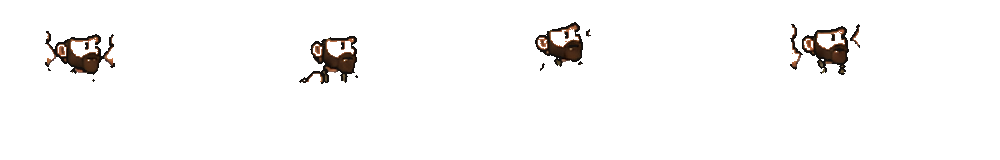
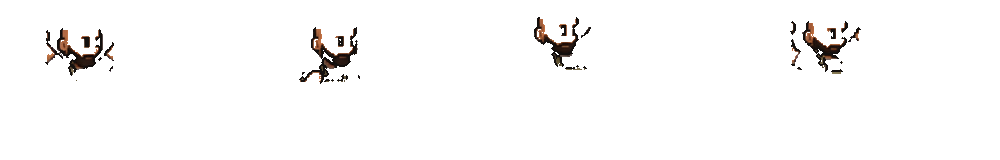
Take the full beard off a bare-headed sheet, and give the cap run its anchors
The beard has always come off the dressed sheet, where the artist drew him
in a cap as well. Hue could separate most of that cap from his whiskers but
never its underside, which is the same brown and sits right among them, so
the overlay carried a dark bar across the brow in all twenty-two frames. It
was there the whole time and easy to miss under a hat.

The new sheet puts him bare-headed, and it lands at 98% overlap with the
bald strips, the closest any sheet has come, because nothing is added above
the head. The bar is gone and the beard is the artist's, unmixed.

That orphaned the hat anchors, which the beard run measured on its way past
the cap. They belong to the run that lifts the cap, so that is where they
are measured now — and since a run's own hits are all that is left when the
cap *is* the target, the brim is measured from those, minus their line
work, which the beard run used to skim off into another branch first. The
seats reproduce to the pixel bar one row on one frame of the reel strip.

Stubble is lighter against the new drawing, which is thinner than the old
one was with a cap's shadow folded into it.

Claude-Session: https://claude.ai/code/session_01VwWoFnHtqAUdLvqdLNocKa

diff --git a/src/utils/anglerLook.js b/src/utils/anglerLook.js
@@ -82,7 +82,7 @@ export const HAIR_STYLES = {
 // shape of its own, so that one may well stay a window for good.
 export const BEARD_STYLES = {
   none: { label: 'Clean shaven', keep: 'none' },
-  stubble: { label: 'Stubble', overlay: 'full', keep: 'all', shade: 0.42 },
+  stubble: { label: 'Stubble', overlay: 'full', keep: 'all', shade: 0.24 },
   mustache: { label: 'Moustache', overlay: 'full', keep: 'lip' },
   goatee: { label: 'Goatee', overlay: 'full', keep: 'chin' },
   full: { label: 'Full beard', overlay: 'full', keep: 'all' },

diff --git a/CLAUDE.md b/CLAUDE.md
@@ -100,7 +100,7 @@ Mobile gets fixed bottom nav with safe-area padding, single-column layouts, and 
 - **Art pipeline:** `scripts/generateImage.mjs` (OpenAI Images, key from `OPENAI_API_KEY`, `--transparent` for sprites) produces raw renders; sprites get their alpha haze thresholded and sheets sliced in a Chromium canvas before landing in `src/assets/{props,ambient,scenes,fish}`. Match existing pieces: pixel-art backdrops/props, and the neon-outlined sticker style for anything in `assets/fish`. Plank and rope frames are `border-image` PNGs in `assets/props`.
 - **Derby prize:** `claimDerbyWin` (AuthContext) checks last week's final board when the game opens and appends the ISO week key to `game_profiles.derby_wins` (migration `0020`) for the winner; `gameDerby.isChampion` decides who flies the Golden Pennant this week, and presence carries `champion` so the crew see it.
 - **The fly rod** (`FLY_ROD` in `gameLures`, `fly_rod` on `game_profiles` — migration `0021`) opens the fly box on `flyWater` grounds (river, mountain lake). Flies are ordinary `owned_lures` with `rod: 'fly'`, an `interaction: 'drift'`, a `hatch` (the periods they match) and, for the streamer, `favors` (species that roll heavier via `rollSpecies`'s `favor` option). The cast becomes an accuracy cast — `rise` moves the meter band and draws the ring on the stage, `castAccuracy` seeds the drift — and the wait is the drift in `lurePhysics` (`stepDrift`/`mendLine`: mend in the band, drag at 100 spooks, the run ends at 100). Off trout water the chips disappear and live bait goes back on.
-- **Looks and Marina's Outfitters** (`utils/anglerLook.js`, `look`/`wardrobe` on `game_profiles` — migration `0022`): seven ChatGPT sheets in `art/` feed this, and the rule is that **every cosmetic is a drawing, stamped or dyed — none is invented**. A shape the painter guessed at is what looked sloppy, so nothing is guessed now: the painter only dyes and places. `art/angler-sheet.png` is the character bald, clean-shaven, pale shirt, olive waders; `scripts/anglerSlice.mjs` reproduces the strips in `assets/angler` from it, thresholding the alpha haze, dropping the navy label chips, stripping the drawn fishing line and its lure (the game draws its own from the rod tip) and taking each pose as the one component joined to its caster's hands. Rows are `idle` 5, `walk` 5 (sliced, not kept), `cast` 5, `reel` 6, `celebrate` 4, `hurt` 3; cast's rodless fourth frame is dropped by `KEEP`, which also puts the rest in the order a cast goes, since the game holds the last one while the line is out. There is no `fishon` row: the hookset is the reel strip's first beats and a lost fish gets the sheet's own slump. Frames land in the box the stage has always used — 250×160, feet at (80, 154) — leaving ten rows of headroom above the crown; `strips.json` records it. `art/angler-dressed-sheet.png`, `art/angler-haired-sheet.png`, `art/angler-outfit-sheet.png` and `art/angler-boots-sheet.png` are the *same character in the same poses*, wearing a cap and a full beard, a head of hair, a vest over jeans, and brown leather boots, and they are the most useful sheets here. Fed through the same feet anchor by `scripts/anglerDressed.mjs` they line up with the bald strips to within a pixel, so what each adds is the artist's own, pose by pose, at that angle, with its own shading and line work. Both are the brown around the head, which hue finds — brown runs red ahead of green where the cap's olive has the two level, and darkness separates it from skin, the lightest thing on a head. Line work goes with whatever it lies against, and the search is held to the head box because the rod is brown too and crosses right past it. The outfit is found a different way: clothes are the only thing that changed below the chin, so it is simply every body pixel that differs from the bald one, with runs under eighty pixels dropped because a redraw never lands on exactly the same pixels and leaves a rim of flecks. A run picks two things independently. `box` is where to look: the head box (`head`, opened by `pad`/`rise`/`below`), everything under the chin (`body`), or the rows the bald frame's own mask wears a part on (`band`). `test` is what counts as the garment there: `diff`, whatever is not what the bald sheet has, which needs no colour at all and is right whenever a sheet changed one thing; or hue, for a sheet that changed two at once. Out past the bald figure a diff only counts a pixel two inside the new silhouette, because a cut-out fades to its background over the last pixel or two and a redraw never lands on the same edge, so that fringe is otherwise all a diff can see there. The boots go back to hue, in a box of their own: two dark boots differ from two dark ones by too little for a diff to see, but brown leather against the olive hem right above it is the same question as brown hair against an olive cap. That box is the rows the bald frame's own mask wears boots on, opened upwards for a taller shaft and never further from the ground than a boot is tall — in the kneeling pose the mask calls his shoulder leather and his bowed head is right beside it — and nothing goes on over skin, because his bare forearms there are as brown and as dark as the leather. Each lands in `assets/angler/{beard,hair,outfit,boots}/*.png`, one overlay per strip, pixel-for-pixel, so the painter has nothing to place — and an overlay drawn for a head thrown back mid-cast beats any front-on piece pasted onto one, in all twenty-two frames. The same script measures the *cap* before throwing it away and writes `utils/hatAnchors.json`: the centre and the row the artist's own brim sat on, per frame. Every hat hangs off that. Seating hats on a fraction of the head box instead was the thing that made them sit wrong — a fraction cannot know the head is tipped forward in one pose and thrown back in another, and the artist did know, in all twenty-two. `art/hats-sheet.png` (twenty hats) and `art/hair-sheet.png` (eight hairstyles, made with `scripts/generateImage.mjs`) both go through `scripts/anglerWearables.mjs`, which shrinks each piece by *averaging* to the width it is worn at — at that reduction a sheet's blocks land at about the character's own size, which is why a drawn hat sits on him as if painted there — and records one anchor row per piece. A hat anchors on its `brim`: the lowest row still most of its full width, the underside of a peak or a bucket's brim. A hairpiece anchors on its `top`, because it is not worn on the head, it *is* the top of the head; hanging hair off a brim row buries the eyes. These are the variety — the stock `short` style is the overlay above, which is better and of which there is only one. Rows are split at the widest gaps between pieces and merged down to the sheet's own grid, since no single grow radius keeps a top knot's bun attached without also welding two hairstyles together. The hair sheet needs one more step: asked for hairpieces the model draws whole heads, so the face is cut by its colour and only line work lying *against* hair is kept — following the keyline instead walks down the jaw and stamps a black chin strap across the angler's mouth. **Hats are going the same way, and this is the rule they proved.** A hat drawn front-on as a standalone object cannot sit on a head in a three-quarter turn: that is a viewing angle, not a placement, and no anchor row fixes it — which is why a boonie's chin strap, drawn across the front of the object, lands across his face. So a hat becomes a drawing of *him wearing it*, lifted off a sheet of the same poses (`node scripts/anglerDressed.mjs hat <sheet.png> <name>` → `assets/angler/hats/<name>/*.png`), which needs no scale and no anchor row and turns with the head because the artist turned it. `cap_olive` came off the dressed sheet by the `cap` run — hue, because that sheet wears a beard too — and every other hat sheet goes in `art/hats/<name>.png` and uses the plain `hat` run, which finds any colour. Six drawings now carry fifteen of the rack's twenty-three hats: `cap_olive`, `cap_red`, `beanie_black`, `bucket_tan`, `straw_blue` and `souwester`, each with its dyes. Whether a hat can carry dyes is a fact about the drawing, not a preference: a solid knit hat or a solid oilskin takes one, and `cap_red`'s white front panel, `bucket_camo`'s pattern and `straw_red`'s contrasting band cannot, so those keep their own drawing or stay stamped. The seven left on `hats-sheet.png` are the ones with no sheet of their own yet. Two rules make that run honest. A garment is not one pixel wide, so the hits are *opened* — worn away by a pixel and grown back — which deletes the thread the diff finds where the two sheets' silhouettes differ by a pixel and leaves everything else the size it was; inside the bald figure the fringe rule cannot catch that thread, and `cap_red` is white exactly where it runs. And a hat is one thing, so only the biggest connected piece is kept: the rod and the drawn line cross the head box and the artist put them a pixel off, and no size threshold says that, a rod's run being long. A third rule earns its keep the moment a hat is dyed: the diff finds the brow, the ear and the eye too, because the artist redrew those a pixel over, and an eye that comes along with a hat is dyed with it. What tells them apart is that a feature moved is still there to be found right beside itself, so a pixel matching what the bald frame has within two pixels of it is that same thing shifted, where a hat is a colour the head never had there. Only light pixels are tested: a hat's own keyline is as black as the head's and would always look shifted, and a dark stray never shows anyway because a dye leaves line work alone. The search is one pixel and the match is tight, because it is looking for the *same* colour moved over: `bucket_tan` lands near skin without being it, and a looser match punched the skin through the crown of it in speckles. Out in the air beside him a pale *grey* stroke is the sheet's own drawn line or the whip marks round it, and the bald strips carry neither — the slicer takes them out, the game drawing its own line from the rod tip — so there is nothing there to diff against and every one of them reads as new; a hat out there is a colour, which is what tells `straw_blue`'s brim from the line crossing it. Then, last, a garment is solid, so any hole the tests punched clean through one is filled back from the sheet itself — from the figure only, since a wide brim and the rod can close a pocket of plain background between them — and holes only, since anything open to the outside of the frame is the shape of the hat, not a hole in it. How dark a pixel can be and still take a dye is the drawing's own `floor`, not a constant — `beanie_black` is knitted black, and the usual guard would call most of the wool line work and leave a dyed one black. A drawn hat is named by `overlay` on its rack item and listed in `HAT_ART` in `anglerPaint.js`, where the bundler needs every asset named; a hat still on `hats-sheet.png` keeps its `sprite` and its `hatAnchors.json` seat until its sheet lands, and the brim measurement keeps its own box so those seats do not move meanwhile. A dyed cap is the same drawing against `CAP_DRAWN`, the olive the artist painted it in — which is not the olive of the stamped sprite, they being two drawings of the same cap. That is also the answer for clothing that deforms with the pose: a *stamped* drawing cannot follow a leg mid-stride, but an overlay drawn for that leg can, which is why `waders_jeans` and `boots_brown` are `overlay` items in the rack rather than dyes and why their sheets were worth making. An overlay nulls its slot's dye, and the outfit goes on before the boots, the order they are worn in. `art/boots-sheet.png` and `art/outfits-sheet.png` remain reference for the dye palettes only. Each strip also has a part mask in `assets/angler/masks` (red channel: skin, shirt, waders, boots, rod, line work) and `utils/anglerAnchors.json` holds each frame's head box, face box and facing — from `scripts/anglerMasks.mjs`, previews beside the masks. That script leans on shape where colour cannot decide: the rod is what vanishes under an erosion, the keyline is the outermost pixel of the body, the waders' near-black folds are told from line work by their olive cast, and the head box is cut at the chin where the widest row of the skin patch has lost most of its width to the neck. The sheet only ever draws the angler in a three-quarter turn to his right, so `FACING` is one stated fact about the art. **A skin tone is not a dye.** A dye keeps only a pixel's brightness and rebuilds it on a target colour, which works on gear that keeps its shape under a colour and flattens a face: the shading went and the deepest tone came out grey. The sheet says as much itself — its SKIN TONES row is five separate *heads*, one per tone, because the artist did not tint one either. So `scripts/anglerSkin.mjs` reads six ramps into `utils/skinRamps.json`: the body's own, off the strips where their masks say skin, and the five the sheet draws, each the population sorted by brightness and cut into four bands at its own quartiles so a band is the mean of the tones actually used there. The body lands within nine of the sheet's middle head, which is the check that these are the same character. `shiftPixel` then moves a pixel by the step between its band in one ramp and the same band in the other, so the pixel is *moved* rather than rebuilt and the modelling arrives intact. Each rack tone names a ramp by index; `olive` is the one the sheet has no head for and is mixed from the two either side at the ratio that lands it on its own swatch. Hair and beards keep a dye, with two corrections a drawing needs and gear does not: a highlight lightens *toward white* rather than multiplying past it (multiplying clipped two channels of a blond beard and left the third, which is a colour nobody chose), and `dyeDrawn` pulls the drawing's contrast in toward its middle first, because hair is drawn dark and carrying all of that darkness onto a pale target is what made blond read as olive. `utils/anglerPaint.js` then does three things per strip: dyes the parts that keep their shape (`tintPixel`, luminance-preserving — shirt, waders, boots, rod) and moves skin between ramps; stamps the beard overlay, dyed to the hair colour against `DRAWN_BASE`, with a style as a window on it (`all`, the `chin` as a patch round the chin, the `lip` above the mouth, or `shade`, let almost all the way down into the skin for stubble — it used to be thinned to every other pixel too, and at this size a checkerboard is what that looks like). **The `chin` and `lip` windows are the last invented shapes left on this character**: a goatee the artist draws is not the corner of a full beard, so both want a pose sheet of their own, the way the hats did. Facial hair is set up for that already — `beard <sheet> <name>` lifts into `assets/angler/beards/<style>/` and a style names its drawing with `overlay`, `full` being the dressed sheet's own. The hue test grew one clause for it: a *yellow* hat runs red ahead of green like any brown and its shaded folds are dark enough to pass, but no brown has its green so far ahead of its blue. That clause is not enough on its own, and the reason is worth keeping: **a beard sheet must put him in no hat at all**. A sou'wester's brim line and a goatee came out the same brown, `57,37,22` against `67,43,28`, at the same height on the head, so neither colour nor position could split them, and masking with the hat's own drawing took a third of the goatee with it. One change per sheet is what makes any of this work. Beards also do *not* take the hat run's rules: a hat is one solid thing, where a beard is a moustache and a chin and a pair of sideburns, and keeping only the biggest piece of that throws away three of the four. The box does start below the brow (`from`), since that is where facial hair starts. And only the dressed sheet may write `hatAnchors.json` — a beard sheet in another hat would clobber the seats, so the run leaves the file alone unless it seated all twenty-two; and puts hair on and then the hat over it — the stock style as an overlay like the beard, every other style stamped, scaled by the frame's own head and hung on its anchor, all dyed to the hair colour (against `DRAWN_BASE` for anything lifted off a pose sheet, `HAIR_SPRITE_BASE` for the generated pieces, which came out lighter), a hat only where a wardrobe item is the same drawing in another colour. Hair goes on whether or not a hat does, because a cap leaves plenty showing. `paletteFor(look)` is the pure look → dye targets + `head` plan the painter and its tests share; `DEFAULT_LOOK` is the art exactly as drawn — bald, clean-shaven, bare-headed — so the stock strips show unpainted, and where there's no canvas (jsdom) they show anyway with previews carrying `data-painted="no"`. Skin tone, hair style/colour and facial hair are free; hats, shirts, rod colours, boots and waders are bought once (`purchaseApparel`) and worn via `saveLook`, which re-validates against what's owned — **every wardrobe key is stable across art swaps**, so a key whose drawing changed was repointed and relabelled rather than retired, and nobody's purchase is orphaned. `AnglerPreview` frames `STILL_WINDOW` on the strip or the painted still so both come out the same size. A new hat or hairstyle is a drawing in its sheet plus a key in `WARDROBE` or `HAIR_STYLES`, not code; a new base sheet means a run through the slicer, the mask tool and every dressed run, all of which need Playwright with Chromium. Those sheets come back both on white and already cut out, and `anglerDressed.mjs` decides which by how much of the canvas is transparent. Presence carries `look` so the crew wear theirs.
+- **Looks and Marina's Outfitters** (`utils/anglerLook.js`, `look`/`wardrobe` on `game_profiles` — migration `0022`): eight ChatGPT sheets in `art/` feed this, and the rule is that **every cosmetic is a drawing, stamped or dyed — none is invented**. A shape the painter guessed at is what looked sloppy, so nothing is guessed now: the painter only dyes and places. `art/angler-sheet.png` is the character bald, clean-shaven, pale shirt, olive waders; `scripts/anglerSlice.mjs` reproduces the strips in `assets/angler` from it, thresholding the alpha haze, dropping the navy label chips, stripping the drawn fishing line and its lure (the game draws its own from the rod tip) and taking each pose as the one component joined to its caster's hands. Rows are `idle` 5, `walk` 5 (sliced, not kept), `cast` 5, `reel` 6, `celebrate` 4, `hurt` 3; cast's rodless fourth frame is dropped by `KEEP`, which also puts the rest in the order a cast goes, since the game holds the last one while the line is out. There is no `fishon` row: the hookset is the reel strip's first beats and a lost fish gets the sheet's own slump. Frames land in the box the stage has always used — 250×160, feet at (80, 154) — leaving ten rows of headroom above the crown; `strips.json` records it. `art/angler-dressed-sheet.png`, `art/angler-haired-sheet.png`, `art/angler-outfit-sheet.png` and `art/angler-boots-sheet.png` are the *same character in the same poses*, wearing a cap and a full beard, a head of hair, a vest over jeans, and brown leather boots, and they are the most useful sheets here. Fed through the same feet anchor by `scripts/anglerDressed.mjs` they line up with the bald strips to within a pixel, so what each adds is the artist's own, pose by pose, at that angle, with its own shading and line work. Both are the brown around the head, which hue finds — brown runs red ahead of green where the cap's olive has the two level, and darkness separates it from skin, the lightest thing on a head. Line work goes with whatever it lies against, and the search is held to the head box because the rod is brown too and crosses right past it. The outfit is found a different way: clothes are the only thing that changed below the chin, so it is simply every body pixel that differs from the bald one, with runs under eighty pixels dropped because a redraw never lands on exactly the same pixels and leaves a rim of flecks. A run picks two things independently. `box` is where to look: the head box (`head`, opened by `pad`/`rise`/`below`), everything under the chin (`body`), or the rows the bald frame's own mask wears a part on (`band`). `test` is what counts as the garment there: `diff`, whatever is not what the bald sheet has, which needs no colour at all and is right whenever a sheet changed one thing; or hue, for a sheet that changed two at once. Out past the bald figure a diff only counts a pixel two inside the new silhouette, because a cut-out fades to its background over the last pixel or two and a redraw never lands on the same edge, so that fringe is otherwise all a diff can see there. The boots go back to hue, in a box of their own: two dark boots differ from two dark ones by too little for a diff to see, but brown leather against the olive hem right above it is the same question as brown hair against an olive cap. That box is the rows the bald frame's own mask wears boots on, opened upwards for a taller shaft and never further from the ground than a boot is tall — in the kneeling pose the mask calls his shoulder leather and his bowed head is right beside it — and nothing goes on over skin, because his bare forearms there are as brown and as dark as the leather. Each lands in `assets/angler/{beard,hair,outfit,boots}/*.png`, one overlay per strip, pixel-for-pixel, so the painter has nothing to place — and an overlay drawn for a head thrown back mid-cast beats any front-on piece pasted onto one, in all twenty-two frames. The same script measures the *cap* before throwing it away and writes `utils/hatAnchors.json`: the centre and the row the artist's own brim sat on, per frame. Every hat hangs off that. Seating hats on a fraction of the head box instead was the thing that made them sit wrong — a fraction cannot know the head is tipped forward in one pose and thrown back in another, and the artist did know, in all twenty-two. `art/hats-sheet.png` (twenty hats) and `art/hair-sheet.png` (eight hairstyles, made with `scripts/generateImage.mjs`) both go through `scripts/anglerWearables.mjs`, which shrinks each piece by *averaging* to the width it is worn at — at that reduction a sheet's blocks land at about the character's own size, which is why a drawn hat sits on him as if painted there — and records one anchor row per piece. A hat anchors on its `brim`: the lowest row still most of its full width, the underside of a peak or a bucket's brim. A hairpiece anchors on its `top`, because it is not worn on the head, it *is* the top of the head; hanging hair off a brim row buries the eyes. These are the variety — the stock `short` style is the overlay above, which is better and of which there is only one. Rows are split at the widest gaps between pieces and merged down to the sheet's own grid, since no single grow radius keeps a top knot's bun attached without also welding two hairstyles together. The hair sheet needs one more step: asked for hairpieces the model draws whole heads, so the face is cut by its colour and only line work lying *against* hair is kept — following the keyline instead walks down the jaw and stamps a black chin strap across the angler's mouth. **Hats are going the same way, and this is the rule they proved.** A hat drawn front-on as a standalone object cannot sit on a head in a three-quarter turn: that is a viewing angle, not a placement, and no anchor row fixes it — which is why a boonie's chin strap, drawn across the front of the object, lands across his face. So a hat becomes a drawing of *him wearing it*, lifted off a sheet of the same poses (`node scripts/anglerDressed.mjs hat <sheet.png> <name>` → `assets/angler/hats/<name>/*.png`), which needs no scale and no anchor row and turns with the head because the artist turned it. `cap_olive` came off the dressed sheet by the `cap` run — hue, because that sheet wears a beard too — and every other hat sheet goes in `art/hats/<name>.png` and uses the plain `hat` run, which finds any colour. Six drawings now carry fifteen of the rack's twenty-three hats: `cap_olive`, `cap_red`, `beanie_black`, `bucket_tan`, `straw_blue` and `souwester`, each with its dyes. Whether a hat can carry dyes is a fact about the drawing, not a preference: a solid knit hat or a solid oilskin takes one, and `cap_red`'s white front panel, `bucket_camo`'s pattern and `straw_red`'s contrasting band cannot, so those keep their own drawing or stay stamped. The seven left on `hats-sheet.png` are the ones with no sheet of their own yet. Two rules make that run honest. A garment is not one pixel wide, so the hits are *opened* — worn away by a pixel and grown back — which deletes the thread the diff finds where the two sheets' silhouettes differ by a pixel and leaves everything else the size it was; inside the bald figure the fringe rule cannot catch that thread, and `cap_red` is white exactly where it runs. And a hat is one thing, so only the biggest connected piece is kept: the rod and the drawn line cross the head box and the artist put them a pixel off, and no size threshold says that, a rod's run being long. A third rule earns its keep the moment a hat is dyed: the diff finds the brow, the ear and the eye too, because the artist redrew those a pixel over, and an eye that comes along with a hat is dyed with it. What tells them apart is that a feature moved is still there to be found right beside itself, so a pixel matching what the bald frame has within two pixels of it is that same thing shifted, where a hat is a colour the head never had there. Only light pixels are tested: a hat's own keyline is as black as the head's and would always look shifted, and a dark stray never shows anyway because a dye leaves line work alone. The search is one pixel and the match is tight, because it is looking for the *same* colour moved over: `bucket_tan` lands near skin without being it, and a looser match punched the skin through the crown of it in speckles. Out in the air beside him a pale *grey* stroke is the sheet's own drawn line or the whip marks round it, and the bald strips carry neither — the slicer takes them out, the game drawing its own line from the rod tip — so there is nothing there to diff against and every one of them reads as new; a hat out there is a colour, which is what tells `straw_blue`'s brim from the line crossing it. Then, last, a garment is solid, so any hole the tests punched clean through one is filled back from the sheet itself — from the figure only, since a wide brim and the rod can close a pocket of plain background between them — and holes only, since anything open to the outside of the frame is the shape of the hat, not a hole in it. How dark a pixel can be and still take a dye is the drawing's own `floor`, not a constant — `beanie_black` is knitted black, and the usual guard would call most of the wool line work and leave a dyed one black. A drawn hat is named by `overlay` on its rack item and listed in `HAT_ART` in `anglerPaint.js`, where the bundler needs every asset named; a hat still on `hats-sheet.png` keeps its `sprite` and its `hatAnchors.json` seat until its sheet lands, and the brim measurement keeps its own box so those seats do not move meanwhile. A dyed cap is the same drawing against `CAP_DRAWN`, the olive the artist painted it in — which is not the olive of the stamped sprite, they being two drawings of the same cap. That is also the answer for clothing that deforms with the pose: a *stamped* drawing cannot follow a leg mid-stride, but an overlay drawn for that leg can, which is why `waders_jeans` and `boots_brown` are `overlay` items in the rack rather than dyes and why their sheets were worth making. An overlay nulls its slot's dye, and the outfit goes on before the boots, the order they are worn in. `art/boots-sheet.png` and `art/outfits-sheet.png` remain reference for the dye palettes only. Each strip also has a part mask in `assets/angler/masks` (red channel: skin, shirt, waders, boots, rod, line work) and `utils/anglerAnchors.json` holds each frame's head box, face box and facing — from `scripts/anglerMasks.mjs`, previews beside the masks. That script leans on shape where colour cannot decide: the rod is what vanishes under an erosion, the keyline is the outermost pixel of the body, the waders' near-black folds are told from line work by their olive cast, and the head box is cut at the chin where the widest row of the skin patch has lost most of its width to the neck. The sheet only ever draws the angler in a three-quarter turn to his right, so `FACING` is one stated fact about the art. **A skin tone is not a dye.** A dye keeps only a pixel's brightness and rebuilds it on a target colour, which works on gear that keeps its shape under a colour and flattens a face: the shading went and the deepest tone came out grey. The sheet says as much itself — its SKIN TONES row is five separate *heads*, one per tone, because the artist did not tint one either. So `scripts/anglerSkin.mjs` reads six ramps into `utils/skinRamps.json`: the body's own, off the strips where their masks say skin, and the five the sheet draws, each the population sorted by brightness and cut into four bands at its own quartiles so a band is the mean of the tones actually used there. The body lands within nine of the sheet's middle head, which is the check that these are the same character. `shiftPixel` then moves a pixel by the step between its band in one ramp and the same band in the other, so the pixel is *moved* rather than rebuilt and the modelling arrives intact. Each rack tone names a ramp by index; `olive` is the one the sheet has no head for and is mixed from the two either side at the ratio that lands it on its own swatch. Hair and beards keep a dye, with two corrections a drawing needs and gear does not: a highlight lightens *toward white* rather than multiplying past it (multiplying clipped two channels of a blond beard and left the third, which is a colour nobody chose), and `dyeDrawn` pulls the drawing's contrast in toward its middle first, because hair is drawn dark and carrying all of that darkness onto a pale target is what made blond read as olive. `utils/anglerPaint.js` then does three things per strip: dyes the parts that keep their shape (`tintPixel`, luminance-preserving — shirt, waders, boots, rod) and moves skin between ramps; stamps the beard overlay, dyed to the hair colour against `DRAWN_BASE`, with a style as a window on it (`all`, the `chin` as a patch round the chin, the `lip` above the mouth, or `shade`, let almost all the way down into the skin for stubble — it used to be thinned to every other pixel too, and at this size a checkerboard is what that looks like). **The `chin` and `lip` windows are the last invented shapes left on this character**: a goatee the artist draws is not the corner of a full beard, so both want a pose sheet of their own, the way the hats did. Facial hair goes the same way — `beard <sheet> <name>` lifts into `assets/angler/beards/<style>/` and a style names its drawing with `overlay`. `full` is `art/beards/full.png`, him bare-headed in a full beard, and it lands at 98% overlap, the closest any sheet has come, because nothing is added above the head. It replaced the beard lifted off the dressed sheet, which wore the artist's cap: hue could never quite tell that cap's underside from his whiskers and left a dark bar across the brow in all twenty-two frames. The hue test grew one clause on the way: a *yellow* hat runs red ahead of green like any brown and its shaded folds are dark enough to pass, but no brown has its green so far ahead of its blue. That clause is not enough on its own, and the reason is worth keeping: **a beard sheet must put him in no hat at all**. A sou'wester's brim line and a goatee came out the same brown, `57,37,22` against `67,43,28`, at the same height on the head, so neither colour nor position could split them, and masking with the hat's own drawing took a third of the goatee with it. One change per sheet is what makes any of this work. Beards also do *not* take the hat run's rules: a hat is one solid thing, where a beard is a moustache and a chin and a pair of sideburns, and keeping only the biggest piece of that throws away three of the four. The box does start below the brow (`from`), since that is where facial hair starts. Measuring the artist's cap belongs to the `cap` run now, the one that lifts it, rather than to a beard run that happened to pass it — and since a run's own hits are all that is left when the cap *is* the target, that is where the brim is measured from, minus its line work, which the beard run used to skim off first. It reproduces the seats to the pixel bar one row on one frame. The file is still only written when a sheet seats all twenty-two, so no sheet in some other hat can clobber it; and puts hair on and then the hat over it — the stock style as an overlay like the beard, every other style stamped, scaled by the frame's own head and hung on its anchor, all dyed to the hair colour (against `DRAWN_BASE` for anything lifted off a pose sheet, `HAIR_SPRITE_BASE` for the generated pieces, which came out lighter), a hat only where a wardrobe item is the same drawing in another colour. Hair goes on whether or not a hat does, because a cap leaves plenty showing. `paletteFor(look)` is the pure look → dye targets + `head` plan the painter and its tests share; `DEFAULT_LOOK` is the art exactly as drawn — bald, clean-shaven, bare-headed — so the stock strips show unpainted, and where there's no canvas (jsdom) they show anyway with previews carrying `data-painted="no"`. Skin tone, hair style/colour and facial hair are free; hats, shirts, rod colours, boots and waders are bought once (`purchaseApparel`) and worn via `saveLook`, which re-validates against what's owned — **every wardrobe key is stable across art swaps**, so a key whose drawing changed was repointed and relabelled rather than retired, and nobody's purchase is orphaned. `AnglerPreview` frames `STILL_WINDOW` on the strip or the painted still so both come out the same size. A new hat or hairstyle is a drawing in its sheet plus a key in `WARDROBE` or `HAIR_STYLES`, not code; a new base sheet means a run through the slicer, the mask tool and every dressed run, all of which need Playwright with Chromium. Those sheets come back both on white and already cut out, and `anglerDressed.mjs` decides which by how much of the canvas is transparent. Presence carries `look` so the crew wear theirs.
 - **Presence** (`joinDock` in AuthContext) is Supabase Realtime Presence on one channel keyed by user id, carrying name/ground/phase — deliberately not a table, since it vanishes when the tab closes. Same-ground anglers render on the deck via `GameScene`'s `others` prop; the test mock fakes `track`/`presenceState`/`getChannels` and `emitPresenceSync`. Two traps: the Realtime client returns the *existing* channel for a topic and subscribing to one that's still leaving is a silent no-op, so `joinDock` removes and awaits a stale channel before opening a fresh one; and `FishingGame` joins once per visit (keyed on `loading`, reading `joinDock` through a ref), because the provider hands out a new function every render and leave-and-rejoin on each one is what used to knock presence dark.
 - The sprite strips (stock or rendered) are stepped with `steps(n, jump-none)` and inline animation longhands (a `var()` inside the `animation` shorthand did not work).
 
